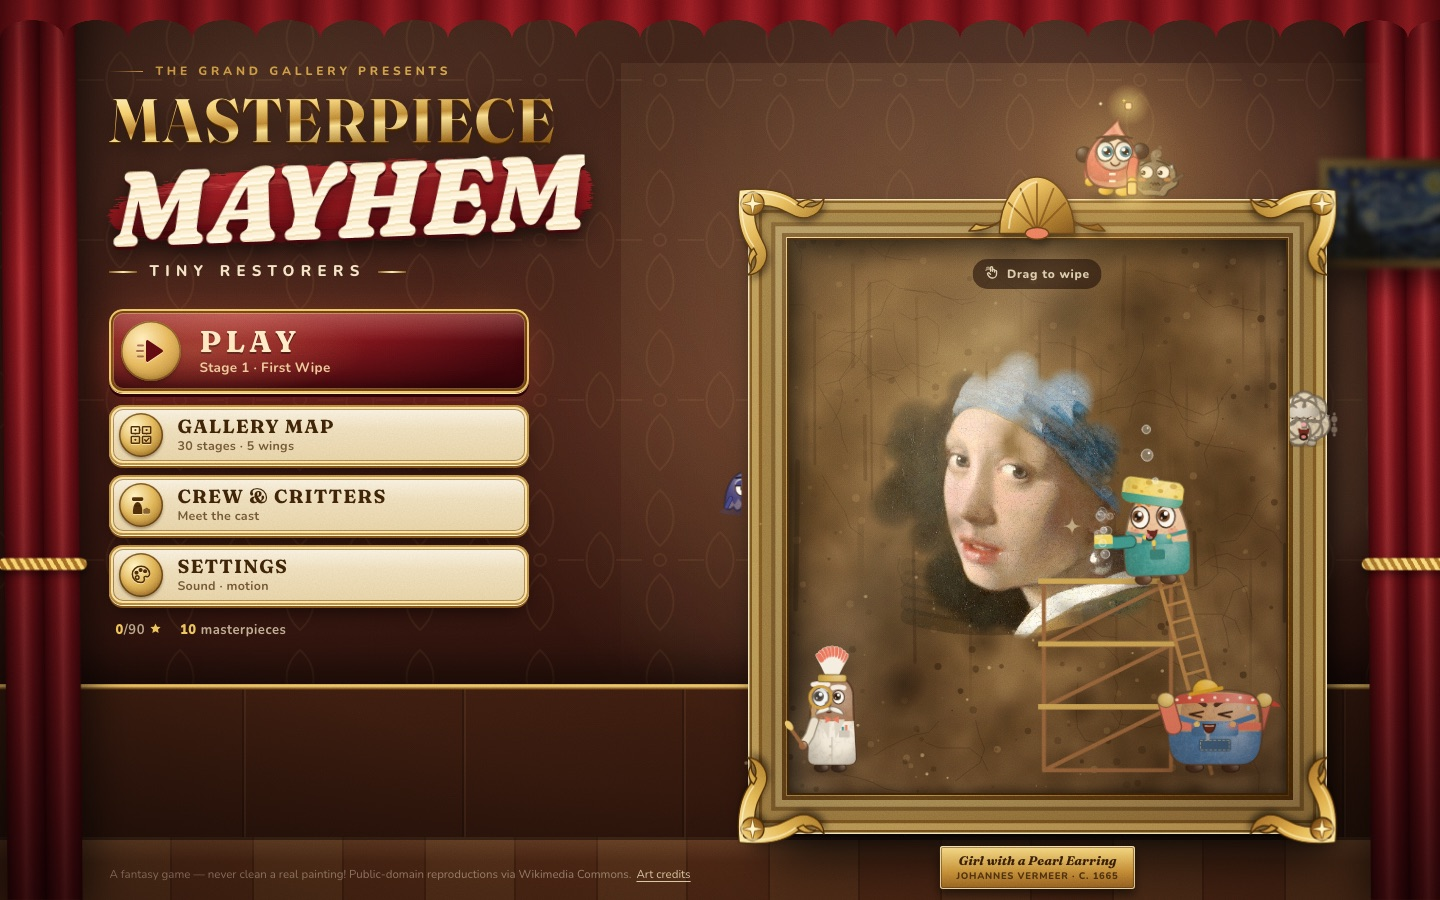
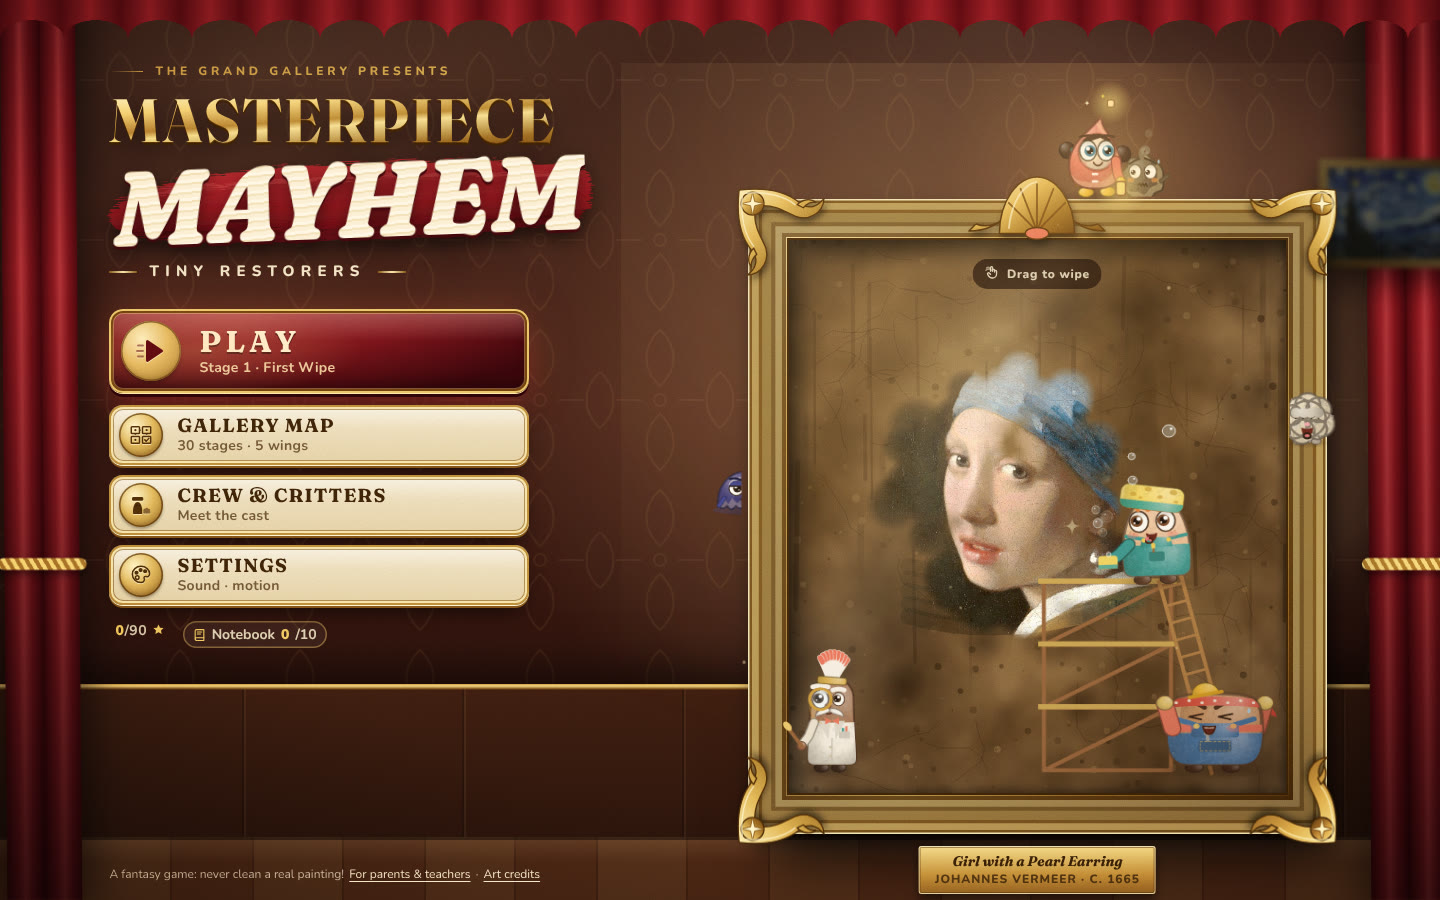
README: show the product, measure the claims, add a roadmap
- Restoration GIF (scrub, pull-back reveal, results) under "What it is"
- Notebook + look-closer screenshot in the parents/teachers section
- "Reviewing the project?" jump links to the decision table, roadmap and
  honest status, near the top
- Speed claims replaced with measurements from the production build on a
  throttled mid-range phone (first paint 0.9 s, menu ready 1.8 s, first
  scrub 9.5 s after Play, 1.2 MB first visit), with the method stated
- New "What's next (in priority order)" plus what is deliberately not
  planned
- Trimmed duplicate copy in the cast, music, tests and credits sections
- Refreshed title screenshots; added screenshots/social-preview.jpg
  (1280x640) for GitHub's social preview setting

Claude-Session: https://claude.ai/code/session_01WFu8JN2kL8e82D6aDLWmwK

diff --git a/README.md b/README.md
@@ -8,6 +8,8 @@ No download, no sign-up, no ads. Works with a mouse or a thumb, on desktop or ph
 
 **At a glance:** 10 public-domain masterpieces · 30 stages across 14 game mechanics · an original score arranged for every gallery · a fact notebook written at a 2nd-grade reading level · no accounts, ads or tracking · 131 KB of gzipped JavaScript, no game engine.
 
+**Reviewing the project?** Start with [the decisions that mattered](#how-it-was-built-the-decisions-that-mattered), then [what's next](#whats-next-in-priority-order) and [what isn't verified yet](#status-the-honest-version).
+
 ![Main menu: a gilded Girl with a Pearl Earring under amber varnish in a velvet-curtained gallery, with Pip scrubbing from a scaffold, Professor Bristlebrow inspecting the frame, Big Mo holding the ladder and Zuzu chasing a soot critter across the top of the frame](screenshots/title-desktop.jpg)
 
 ---
@@ -16,16 +18,19 @@ No download, no sign-up, no ads. Works with a mouse or a thumb, on desktop or ph
 
 You know the Mona Lisa. You've never seen her like this.
 
+![Scrubbing soot off the Mona Lisa with the crew, then pulling back to reveal the restored painting and the results card](screenshots/restore.gif)
+
 Masterpiece Mayhem drops you *into* ten famous paintings. Brushstrokes become hills, varnish becomes a peeling amber sky, and a crack in the paint becomes a road your crew drives pigment down. You scrub, peel, polish, route, lasso and build your way through **30 stages**, and each one ends the same way: you pull back and watch a masterpiece come back to life.
 
-- **See it fast.** You recognise the painting within two seconds, and tiny characters are already up to something.
-- **Play it right away.** Your first scrub happens in under ten seconds.
+- **Play it right away.** On a throttled mid-range phone the menu is ready in 1.8 s, and a new player's first scrub comes 9.5 s after tapping Play.
 - **Stay for the variety.** Varnish peels, crack-road logistics, Seurat colour-mixing puzzles, a lasso roundup, a bridge-building physics puzzle and a three-phase slime-king boss fight.
 - **Mistakes are fun, not fatal.** Over-scrub and the **Botch Meter** curses the painting with goofy, temporary distortions.
 
 ## For kids, parents and teachers
 
 The learning lives inside the play, not in quizzes.
+
+![A Conservator's Notebook page for The Night Watch with three short facts, next to the look-closer view zoomed in on a hotspot about the captain's hand shadow](screenshots/notebook.jpg)
 
 - **Conservator's Notebook.** Restoring any stage unlocks that painting's page: a fun opener, three short true facts, its size in kid terms ("taller than a basketball hoop") and where to see it in real life.
 - **Look closer.** Numbered spots zoom into the real painting: the shadow of a hand on a coat, a missing eyebrow, Fuji hiding behind a wave.
@@ -49,7 +54,7 @@ A **Parents & teachers** page in Settings covers what players learn and how to u
 | **Big Mo Brogan**, lifter & scaffold boss | A gentle giant in a hard hat three sizes too small. |
 | **Zuzu Glimmer**, lamplighter & pigment courier | The smallest and fastest, with an antenna lantern. |
 
-**The Grimelings** are the troublemakers: **Smudge** the soot smudger, **Blotto** the wobbly ink stain, **Crackle** the craquelure critter, and their ruler **King Gloopus**, who swallowed a paintbrush, a button and a crown and kept the crown. They act: surprised, panicked, sneaky, and waving a tiny white flag when you win. Design rationale: [CHARACTER_BIBLE.md](CHARACTER_BIBLE.md).
+**The Grimelings** are the troublemakers, led by **King Gloopus**, who swallowed a paintbrush, a button and a crown and kept the crown. They sneak, panic and wave a tiny white flag when you catch them. Design notes: [CHARACTER_BIBLE.md](CHARACTER_BIBLE.md).
 
 ## Ten masterpieces, five galleries, 30 stages
 
@@ -74,14 +79,13 @@ A **Parents & teachers** page in Settings covers what players learn and how to u
 One original waltz theme, re-orchestrated for each room: a wind-up music box on the menu, pizzicato strings in Gallery I, marimba and flute in II, flute over harp in III, a cheeky bassoon in IV, clarinet and parlour piano in V, a minor-key march for King Gloopus and a slow hymn for the finale.
 
 - **It grows as you restore.** Extra parts come in as the painting gets cleaner, and the win resolves the tune in key.
-- **Sound that follows your hand.** Scrubbing, peeling and spraying get denser the harder you work; the vacuum motor spins up.
-- **Recorded, not beeped.** 145 CC0 recordings (3.2 MB, loaded one gallery at a time), layered and varied so nothing repeats exactly.
+- **Sound that follows your hand.** 145 CC0 recordings (3.2 MB, loaded per gallery), layered so scrubbing, peeling and spraying get denser the harder you work.
 
 ## How it was built: the decisions that mattered
 
 | Decision | Why | Trade-off accepted | How it was checked |
 |---|---|---|---|
-| No game engine or UI framework (Canvas 2D + plain DOM) | Fast first load on school Chromebooks and old phones; full control of the look | More code written by hand | 131 KB gzipped JS; two runtime dependencies, both fonts |
+| No game engine or UI framework (Canvas 2D + plain DOM) | Fast first load on school Chromebooks and old phones; full control of the look | More code written by hand | 131 KB gzipped JS, two runtime dependencies (both fonts); first paint 0.9 s and menu ready 1.8 s on a throttled mid-range phone* |
 | Characters drawn in code, not sprite sheets | One felt-and-clay material for 4 heroes and 10 critters, at any size, in any mood | Art iteration happens in TypeScript | A Crew & Critters page and a 20px/48px readability check |
 | Public-domain paintings with a fallback | Real masterpieces, never a broken image | Commercial release still needs a rights review (stated below) | Each file's status confirmed through the Wikimedia Commons API |
 | Free CC0 recordings over a commissioned score | Real instruments now, at no cost; a composer can drop in later | A ceiling short of a bespoke score | Audio recorded from the engine: arrangements level-matched within about 1 LU, no clipping, pitch content matches each key |
@@ -89,10 +93,22 @@ One original waltz theme, re-orchestrated for each room: a wind-up music box on 
 | 2nd-grade reading level, enforced | Teachers and parents need it to be truly readable | Fewer, shorter facts | Unit tests cap sentence length and reading grade |
 | Privacy by default | Children are the audience | No leaderboards or cloud saves | No network calls beyond the game's own assets |
 
+<sub>*Measured 2026-11-15 on the production build in Chromium at 390×844, with the CPU slowed 4× and a 4G-like connection (9 Mbps, 85 ms latency); median of three runs. First visit transfers 1.2 MB in total, including fonts and the title painting.</sub>
+
+## What's next (in priority order)
+
+1. **Teacher review of the 30 notebook facts.** Accuracy is the whole value for schools, and it is cheap to check.
+2. **Playtest with children on real phones.** The share clip, read-aloud and touch feel depend on the device and have only been tested in desktop Chromium.
+3. **Make stages 25, 29 and 30 reliably winnable.** The automated solver can't finish them yet, which means some children may not either.
+4. **Classroom mode.** Join with a code, no student accounts, sessions sized for a 15-minute lesson slot.
+5. **Rights review before any commercial release**, swapping in museums' own open-access images where needed.
+6. **A commissioned score** once there's a budget. The audio engine already plays any recorded arrangement.
+
+**Deliberately not planned:** accounts, leaderboards, ads and in-app purchases. They add risk for a young audience and none of them make the game better at its job.
+
 ## Built for everyone
-- **Mobile and desktop:** portrait and landscape, touch and mouse, no accidental page scroll.
 - **Accessible:** keyboard controls (Esc/P pause, Z zoom, H hint, 1–9 tools), focus rings, ARIA labels, live objective updates, reduced-motion mode, separate sound and music toggles, a six-step type scale with nothing below 12px.
-- **Lightweight:** 131 KB of gzipped JavaScript and 15 KB of CSS, plus fonts, painting images and audio loaded per gallery.
+- **Lightweight:** 131 KB of gzipped JavaScript and 15 KB of CSS. The first visit transfers 1.2 MB in total; other paintings and each gallery's audio load when needed.
 
 ## Run it locally
 
@@ -106,8 +122,8 @@ npm run preview      # serve dist/ on http://localhost:4173
 `?stage=12` jumps to an unlocked stage; `?qa` unlocks everything.
 
 ## Tests
-- **Unit (Vitest):** `npm test` runs 65 tests: truss physics, courier routing, the character cast, the musical score (every note in key, no sample stretched past a fifth) and the notebook (sentence length, reading grade, hotspot placement).
-- **Browser (Playwright):** `npm run test:e2e` builds the production bundle and runs 8 tests on desktop and phone viewports: the menu cast never covers a button, wiping removes real grime, routing, the Crew & Critters page, real scrub progress, an autoplayed stage-1 win, the notebook and look-closer flow, and the parents page.
+- **Unit (Vitest):** `npm test` runs 65 tests, including the musical score (every note in key) and the notebook (sentence length and reading grade).
+- **Browser (Playwright):** `npm run test:e2e` builds the production bundle and runs 8 flows on desktop and phone: menu layout, real grime removal, routing, the cast page, scrub progress, a full stage win, the notebook and the parents page.
 - **Autoplay regression:** `node scripts/autoplay-all.mjs 1-30` runs the built-in solver on every stage against a running dev server.
 
 ## Status: the honest version
@@ -117,7 +133,7 @@ Playable today and live. What is verified and what isn't is in [DEVELOPMENT_STAT
 - The 30 notebook facts were written from well-documented sources and are pending review by a teacher.
 
 ## Credits & a friendly warning
-The ten paintings are public-domain works; the bundled images are downscaled Wikimedia Commons files marked *Public domain* (sources and caveats in [ART_LICENSES.md](ART_LICENSES.md)). Some museums restrict commercial use of photos of their collections, so **a rights review is required before any commercial release.** Characters, grime, tools, UI, score and sound design are original. The recordings they use are CC0, from [Versilian Studios Chamber Orchestra 2 – Community Edition](https://github.com/sgossner/VSCO-2-CE) and [Kenney](https://kenney.nl).
+The paintings are public-domain works, bundled as downscaled Wikimedia Commons files marked *Public domain*. Some museums restrict commercial use of photos of their collections, so **a rights review is required before any commercial release** (details in [ART_LICENSES.md](ART_LICENSES.md)). Everything else is original; the recordings it plays are CC0, from [VSCO 2 Community Edition](https://github.com/sgossner/VSCO-2-CE) and [Kenney](https://kenney.nl).
 
 > 🧽 **This is a fantasy.** Never scrub, peel, polish or spray a real painting. Leave that to trained conservators.
 
